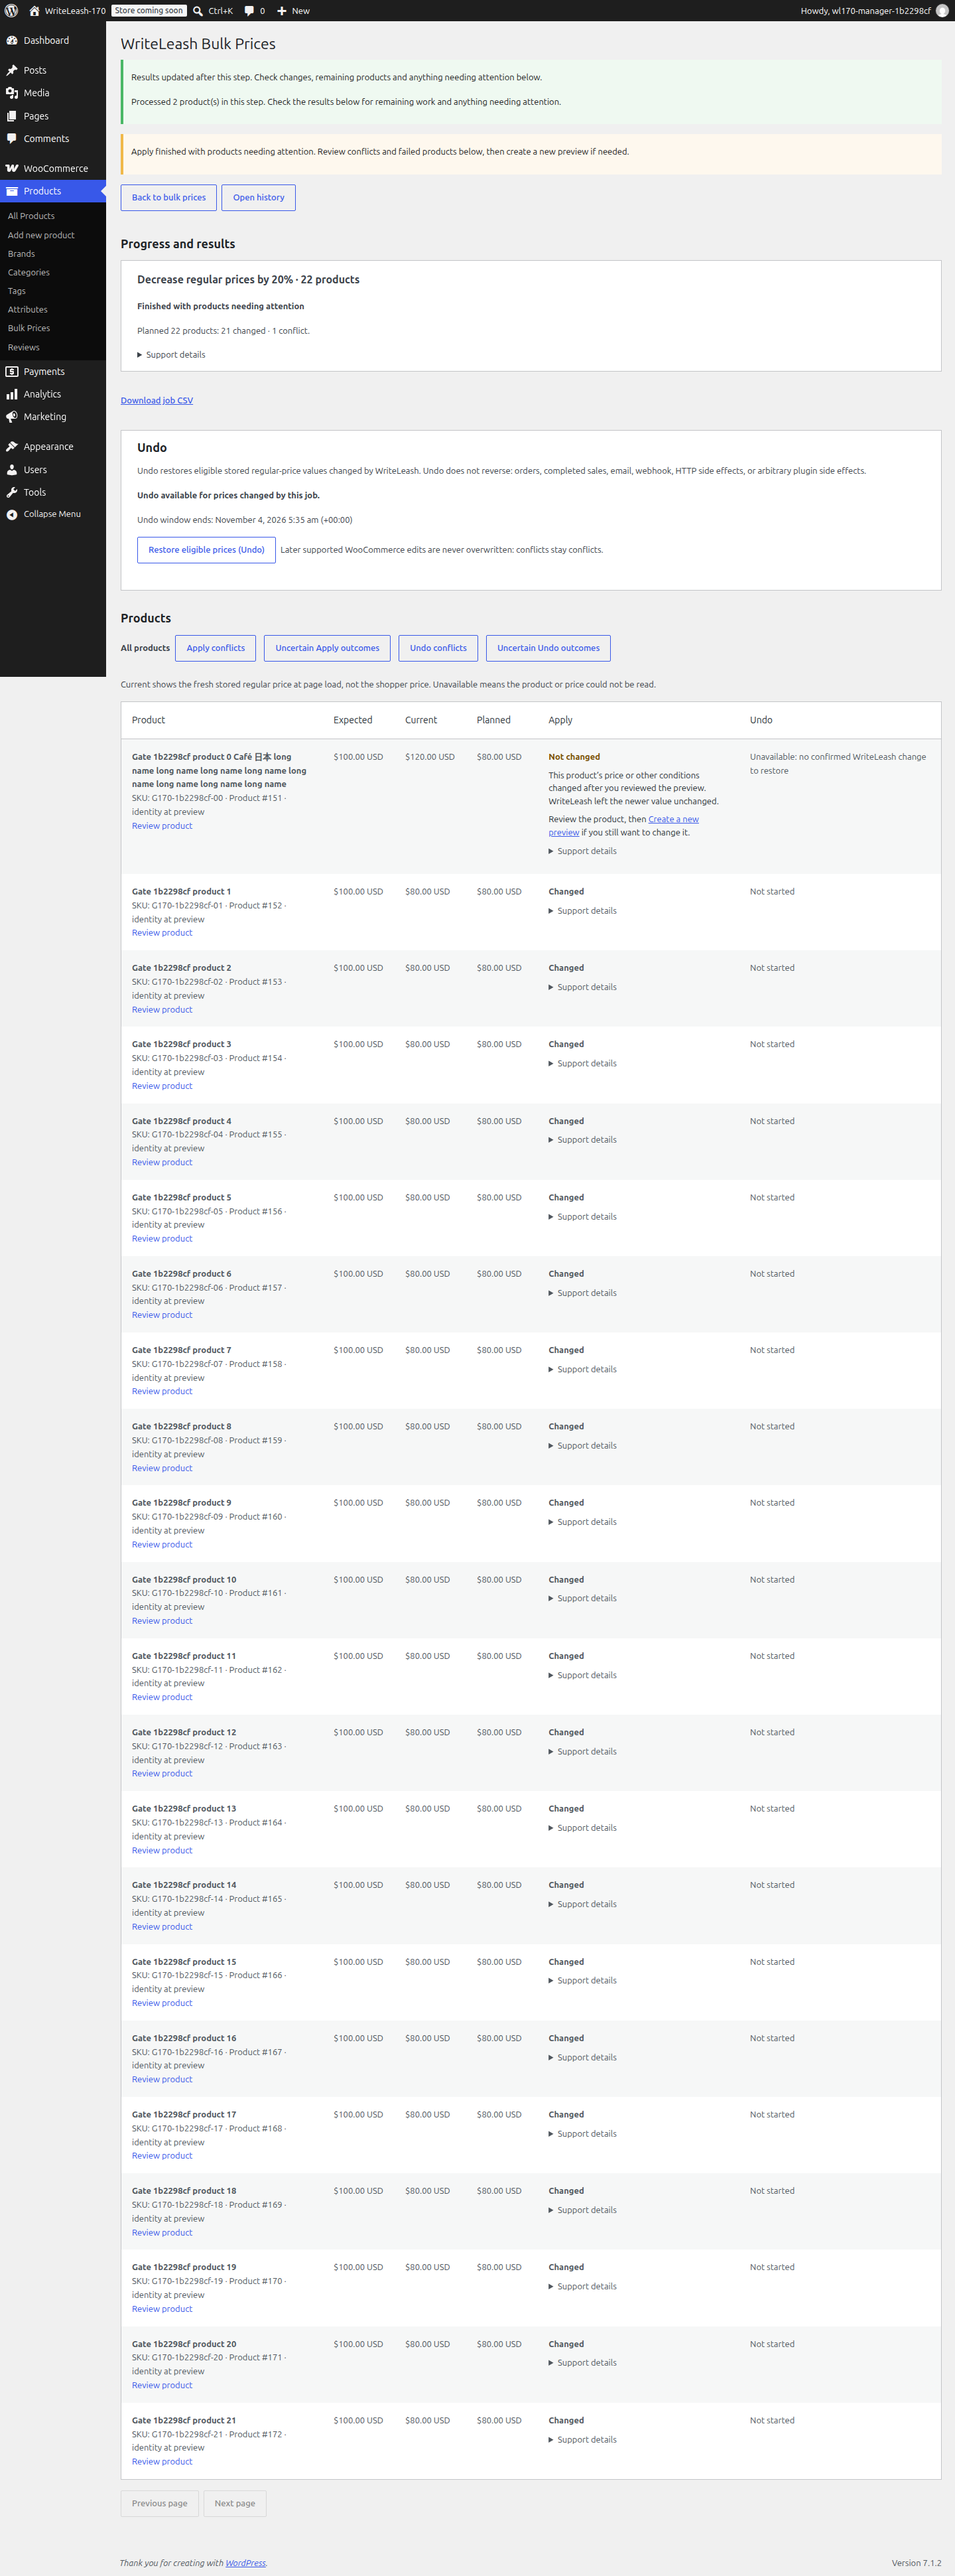
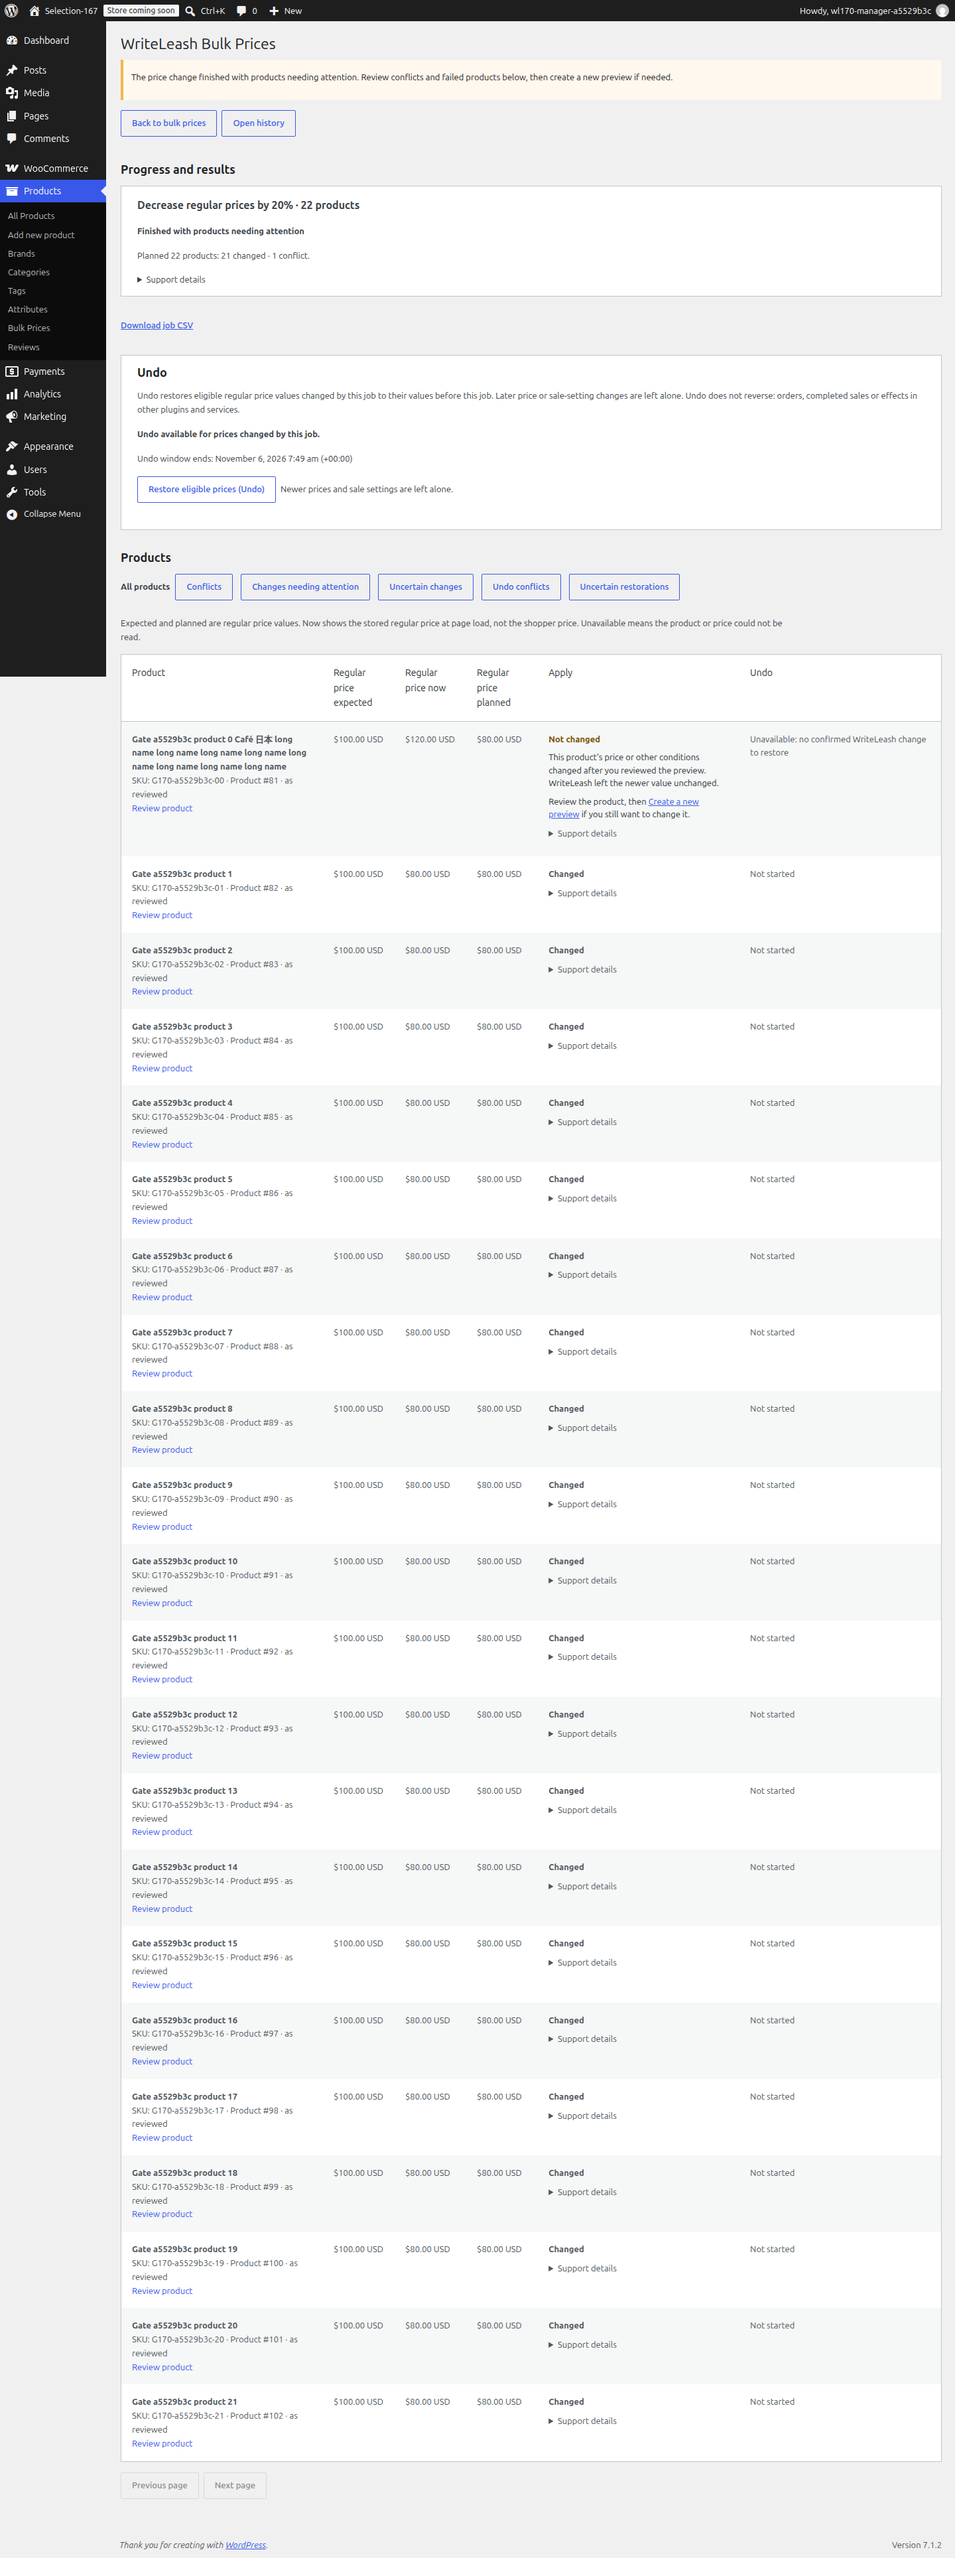
fix(admin): clarify first-time Bulk Prices workflow

diff --git a/wordpress/writeleash/includes/free/free-selection.js b/wordpress/writeleash/includes/free/free-selection.js
@@ -3,7 +3,26 @@
     'use strict';
     $(function () {
         var form = $('#writeleash-free-selection-form');
-        if (!form.length || !$.fn.selectWoo) { return; }
+        if (!form.length) { return; }
+        var method = $('#writeleash-free-selector');
+        function selectionMethod() {
+            var kind = method.val();
+            $('#writeleash-free-product-picker').prop('hidden', kind !== 'ids');
+            $('#writeleash-free-category-picker').prop('hidden', kind !== 'category');
+            $('#writeleash-free-advanced-selection').prop('hidden', kind !== 'sku' && kind !== 'manual_ids').prop('open', kind === 'sku' || kind === 'manual_ids');
+            $('#writeleash-free-sku').closest('p').prop('hidden', kind !== 'sku');
+            $('#writeleash-free-ids').closest('p').prop('hidden', kind !== 'manual_ids');
+            $('#writeleash-free-discovery-status').text(kind === 'ids' ? 'Search and choose products to add them.' : (kind === 'category' ? 'All direct members of this category will be checked in Preview, including variations. Subcategories are not included.' : ''));
+        }
+        function amountLabel() {
+            var operation = $('#writeleash-free-operation').val();
+            $('label[for="writeleash-free-amount"]').text(operation === 'SET' ? 'New price' : (operation.indexOf('PERCENT') !== -1 ? 'Percentage (e.g. 8 for 8%)' : 'Amount to ' + (operation.indexOf('INCREASE') === 0 ? 'increase' : 'decrease') + ' by'));
+        }
+        method.on('change', selectionMethod);
+        $('#writeleash-free-operation').on('change', amountLabel);
+        selectionMethod();
+        amountLabel();
+        if (!$.fn.selectWoo) { return; }
         var maxSelection = parseInt(form.data('max-selection'), 10) || 1000;
         var status = $('#writeleash-free-discovery-status');
         var products = $('#writeleash-free-products');

diff --git a/wordpress/writeleash/includes/free/class-free-admin.php b/wordpress/writeleash/includes/free/class-free-admin.php
@@ -770,6 +770,7 @@ final class Free_Admin {
 			return 'WriteLeash needs a standard transactional database connection (mysqli with InnoDB tables). No job was created and no product was changed.';
 		}
 		$messages = array(
+			'invalid_price' => 'This product has an invalid stored price. Open it in WooCommerce, correct the price and save it before creating a new preview.',
 			'capability_required' => 'You need WooCommerce product management capabilities for this action.',
 			'post_required' => 'This action requires an authenticated POST request.',
 			'invalid_nonce' => 'The security token is missing or invalid. Reload the page and try again.',
@@ -792,7 +793,7 @@ final class Free_Admin {
 			'invalid_job' => 'No WriteLeash job matches that identifier.',
 			'invalid_input' => 'A request field is malformed; nothing was changed.',
 			'plan_blocked' => 'The safety policy blocks this plan; it cannot be approved.',
-			'preview_ready' => 'Preview ready. Review these saved prices before approving.',
+			'preview_ready' => 'Preview ready. No prices have changed yet. Review these saved prices before approving.',
 			'plan_policy_blocked' => 'Your safety limits block every changing product in this preview; it cannot be approved.',
 			'already_approved' => 'This plan was already approved; no duplicate approval was recorded.',
 			'job_material_mismatch' => 'This saved job no longer matches its approved preview; no product was changed. Start a new preview.',
@@ -1218,10 +1219,11 @@ final class Free_Admin {
 		echo '<fieldset><legend>' . esc_html( '1. Select products' ) . '</legend>';
 		echo '<p id="writeleash-free-selector-help">' . esc_html( 'Choose specific products or one category. Categories include direct members only; subcategories are not included. Search matches are not automatically selected and do not guarantee eligibility. Preview checks every selected product. Maximum ' . Free_Support_Contract::MAX_JOB_PRODUCTS . ' selected products.' ) . '</p>';
 		echo '<p><label for="writeleash-free-selector">Selection method</label><br><select id="writeleash-free-selector" name="selector" aria-describedby="writeleash-free-selector-help">';
-		foreach ( array( 'ids' => 'Choose products by name or SKU', 'category' => 'Named product category', 'sku' => 'Advanced: one exact SKU', 'manual_ids' => 'Advanced: manual product IDs' ) as $value => $label ) {
+		foreach ( array( 'ids' => 'Choose products by name or SKU', 'category' => 'Product category', 'sku' => 'One exact SKU', 'manual_ids' => 'Advanced: manual product IDs' ) as $value => $label ) {
 			echo '<option value="' . esc_attr( $value ) . '"' . selected( $values['selector'], $value, false ) . '>' . esc_html( $label ) . '</option>';
 		}
 		echo '</select></p><p id="writeleash-free-discovery-status" role="status" aria-live="polite">Search and choose products. If live suggestions are unavailable, use the search without live suggestions.</p>';
+		echo '<div id="writeleash-free-product-picker">';
 		echo '<details id="writeleash-free-products-fallback" open><summary>Search products without live suggestions</summary>';
 		self::selector_field( 'product_search', 'Product name or partial SKU', 'search', $values['product_search'], 'writeleash-free-selector-help' );
 		echo '<input type="hidden" name="product_page" value="' . esc_attr( $values['product_page'] ) . '">';
@@ -1241,7 +1243,7 @@ final class Free_Admin {
 		foreach ( $selected as $id => $item ) { echo '<li>' . esc_html( $item['text'] ) . ' '; self::selection_button( 'remove:' . $id, 'Remove', 'Remove ' . $item['text'] ); echo '</li>'; }
 		if ( ! $selected ) { echo '<li>No products selected. Search and choose products to add them.</li>'; }
 		echo '</ul><button id="writeleash-free-clear" class="button" type="submit" name="selection_action" value="clear-products" formaction="' . esc_url( self::page_url() ) . '" formnovalidate>Clear selected products</button>';
-		echo '<details id="writeleash-free-categories-fallback" open><summary>Search categories without live suggestions</summary>';
+		echo '</div><div id="writeleash-free-category-picker"><details id="writeleash-free-categories-fallback" open><summary>Search categories without live suggestions</summary>';
 		self::selector_field( 'category_search', 'Category name', 'search', $values['category_search'], 'writeleash-free-selector-help' );
 		echo '<input type="hidden" name="category_page" value="' . esc_attr( $values['category_page'] ) . '">';
 		self::selection_button( 'search-categories', 'Search categories' );
@@ -1256,7 +1258,7 @@ final class Free_Admin {
 			try { $item = Product_Discovery::category( (int) $values['category'] ); if ( $item ) { $category_options[$item['id']] = $item; } } catch ( \Throwable $error ) { /* Dependency/permission notice above; no guessed label. */ }
 		}
 		foreach ( $category_options as $id => $item ) { echo '<option value="' . esc_attr( (string) $id ) . '"' . selected( $values['category'], (string) $id, false ) . '>' . esc_html( $item['text'] ) . '</option>'; }
-		echo '</select></p><details><summary>Advanced selection: exact SKU or manual IDs</summary><p>Choose the matching advanced selection method above. Exact SKU means one byte-for-byte SKU, not a list. Changing inputs creates a new preview.</p>';
+		echo '</select></p></div><details id="writeleash-free-advanced-selection"' . ( in_array( $values['selector'], array( 'sku', 'manual_ids' ), true ) ? ' open' : '' ) . '><summary>Exact SKU or manual product IDs</summary><p>Enter one complete SKU or comma-separated product IDs for the selection method chosen above.</p>';
 		self::selector_field( 'ids', 'Explicit product IDs (advanced), e.g. 12,34,56', 'text', $values['ids'], 'writeleash-free-selector-help' );
 		self::selector_field( 'sku', 'One exact SKU', 'text', $values['sku'], 'writeleash-free-selector-help' );
 		echo '</details></fieldset><fieldset><legend>2. Choose the price change</legend><p><label for="writeleash-free-price-field">Price to change</label><br><select id="writeleash-free-price-field" name="price_field" aria-describedby="writeleash-free-price-field-help">';
@@ -1268,13 +1270,16 @@ final class Free_Admin {
 			echo '<option value="' . esc_attr( $value ) . '"' . selected( $values['operation'], $value, false ) . '>' . esc_html( $label ) . '</option>';
 		}
 		echo '</select></p>';
-		self::selector_field( 'amount', 'Unsigned amount or percent, e.g. 80.00 or 20 (no % sign)', 'text', $values['amount'], 'writeleash-free-operation', true );
-		echo '</fieldset><fieldset class="writeleash-safety"><legend>3. Safety limits</legend><p class="writeleash-full-width">A breach blocks the whole preview.</p>';
+		$amount_label = Price_Operation::SET === $values['operation'] ? 'New price' : ( in_array( $values['operation'], array( Price_Operation::INCREASE_PERCENT, Price_Operation::DECREASE_PERCENT ), true ) ? 'Percentage (e.g. 8 for 8%)' : ( Price_Operation::INCREASE_FIXED === $values['operation'] ? 'Amount to increase by' : 'Amount to decrease by' ) );
+		self::selector_field( 'amount', $amount_label, 'text', $values['amount'], 'writeleash-free-amount-help', true );
+		echo '<p id="writeleash-free-amount-help" class="description">Enter a positive number or zero. Use a dot for decimals; leave out currency symbols and the % sign.</p>';
+		$custom_limits = array_diff_assoc( array_intersect_key( $values, array_flip( array( 'max_products', 'max_increase', 'max_decrease', 'warning_threshold' ) ) ), $defaults ) || ! empty( $values['block_zero'] );
+		echo '</fieldset><details id="writeleash-free-safety-limits"' . ( $custom_limits ? ' open' : '' ) . '><summary>Safety limits (optional)</summary><fieldset class="writeleash-safety"><legend>Safety limits</legend><p class="writeleash-full-width">A change beyond these limits blocks the whole preview.</p>';
 		$maximum = Free_Support_Contract::MAX_JOB_PRODUCTS;
 		self::selector_field( 'max_products', 'Maximum changing products (0-' . $maximum . ')', 'number', $values['max_products'], 'writeleash-free-operation', true, 0, $maximum );
 		foreach ( array( 'max_increase' => 'Maximum increase percent', 'max_decrease' => 'Maximum decrease percent', 'warning_threshold' => 'Warning threshold percent' ) as $name => $label ) { self::selector_field( $name, $label, 'text', $values[$name], 'writeleash-free-operation', true ); }
-		echo '<p class="writeleash-full-width"><input id="writeleash-free-block-zero" name="block_zero" type="checkbox" value="1"' . checked( $values['block_zero'] ?? '', '1', false ) . '> <label for="writeleash-free-block-zero">Block a preview that sets any changing price to zero</label></p></fieldset>';
-		echo '<p class="writeleash-actions"><button type="submit" class="button button-primary">Preview price changes</button> <span class="description">' . esc_html( 'Nothing is saved until you approve the preview.' ) . '</span></p></form>';
+		echo '<p class="writeleash-full-width"><input id="writeleash-free-block-zero" name="block_zero" type="checkbox" value="1"' . checked( $values['block_zero'] ?? '', '1', false ) . '> <label for="writeleash-free-block-zero">Block a preview that sets any changing price to zero</label></p></fieldset></details>';
+		echo '<p class="writeleash-actions"><button type="submit" class="button button-primary">Preview price changes</button> <span class="description">' . esc_html( 'Preview does not change any prices.' ) . '</span></p></form>';
 	}
 
 	/** Job tables exist yet. Pure page views never create tables; the first preview import installs them. */
@@ -1518,7 +1523,6 @@ final class Free_Admin {
 		if ( in_array( $effective, array( Job_State::PAUSED, Job_State::NEEDS_REVIEW ), true ) ) { echo '<p>' . esc_html( self::reason_message( $observed['effective_reason'] ) ) . '</p>'; }
 		self::support_details( $effective . ' · ' . $observed['effective_reason'] . ' · ' . $job['public_id'] . ' · pending ' . $counts['pending'] . ' · applied ' . $counts['applied'] );
 		echo '</div>';
-		self::render_export_form( $job );
 		if ( $observed['stalled'] ) {
 			echo '<div class="notice notice-warning" role="alert"><p>' . esc_html( 'Background processing stopped making progress. Use Resume remaining products to continue; completed changes are kept.' ) . '</p></div>';
 		}
@@ -1531,13 +1535,15 @@ final class Free_Admin {
 			echo '<div class="notice notice-error" role="alert"><p>' . esc_html( self::reason_message( 'supported_job_limit_exceeded', $selected ) ) . '</p></div>';
 		}
 		if ( $complete_evidence && Job_State::can_manual_run( $job['status'] ) && self::can_mutate() ) {
+			if ( in_array( $effective, array( Job_State::READY, Job_State::QUEUED ), true ) && ! $observed['stalled'] ) { echo '<p>' . esc_html( 'Waiting for background processing. Use Resume remaining products to run the next step now.' ) . '</p>'; }
 			echo '<form method="post" action="' . esc_url( admin_url( 'admin-post.php' ) ) . '">';
 			echo '<input type="hidden" name="action" value="' . esc_attr( self::ACTION_RESUME ) . '">';
 			echo '<input type="hidden" name="job" value="' . esc_attr( $job['public_id'] ) . '">';
 			wp_nonce_field( self::ACTION_RESUME . '_' . $job['public_id'] );
 			echo '<p><button type="submit" class="button button-primary">' . esc_html( 'Resume remaining products' ) . '</button> ';
-			echo esc_html( 'Continues remaining products in a small step. Conflicted products will not be retried. Reload this page to check progress.' ) . '</p></form>';
+			echo esc_html( 'Runs only the remaining products; completed changes are kept. Products changed since Preview are left alone.' ) . '</p></form>';
 		}
+		self::render_export_form( $job );
 		echo '<section class="writeleash-undo"><h2>' . esc_html( 'Undo' ) . '</h2>';
 		if ( $complete_evidence ) { self::render_undo_section( $job, $history, $plan->price_field() ); }
 		else { echo '<p>Undo availability cannot be verified while product outcomes are missing. Reload this job or ask an administrator to check its saved records.</p>'; }
@@ -1604,7 +1610,7 @@ final class Free_Admin {
 
 	private static function render_undo_section( array $job, array $history, string $field ): void {
 		$field_label = strtolower( Price_Operation::label( $field ) );
-		echo '<p>' . esc_html( 'Undo restores eligible ' . $field_label . ' values changed by WriteLeash. Undo does not reverse: orders, completed sales, emails, webhooks, remote requests or other plugins’ effects.' ) . '</p>';
+		echo '<p>' . esc_html( 'Undo restores eligible ' . $field_label . ' values changed by this job to their values before this job. Later price or sale-setting changes are left alone. Undo does not reverse: orders, completed sales or effects in other plugins and services.' ) . '</p>';
 		echo '<p><strong>' . esc_html( self::undo_availability( $job, $history ) ) . '</strong></p>';
 		if ( ! empty( $history['undo_expires_at'] ) ) {
 			echo '<p>' . esc_html( 'Undo window ends: ' . self::site_time( $history['undo_expires_at'] ) ) . '</p>';
@@ -1622,7 +1628,7 @@ final class Free_Admin {
 			echo '<input type="hidden" name="job" value="' . esc_attr( $job['public_id'] ) . '">';
 			wp_nonce_field( self::ACTION_UNDO . '_' . $job['public_id'] );
 			echo '<p><button type="submit" class="button' . ( empty( $history['undo']['operation_status'] ) ? ' button-secondary' : ' button-primary' ) . '">' . esc_html( empty( $history['undo']['operation_status'] ) ? 'Restore eligible prices (Undo)' : 'Continue Undo' ) . '</button> ';
-			echo esc_html( 'Later supported WooCommerce edits are never overwritten: conflicts stay conflicts.' ) . '</p></form>';
+			echo esc_html( 'Newer prices and sale settings are left alone.' ) . '</p></form>';
 		} elseif ( $history['undo_eligible'] && ! self::can_mutate() ) {
 			echo '<p>You do not have permission to restore prices.</p>';
 		}
